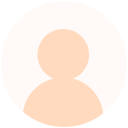
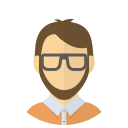
个人中心样式改动

diff --git a/css/personcenter.less b/css/personcenter.less
@@ -2,10 +2,10 @@
  * 个人中心css样式
  */
 @bili:100rem;
-.container{
+
+.warpper{
     background: #f6f6f6;
 }
-
 .page-header{
     background: url(../img/page_bg.jpg) no-repeat center;
     width: 100%;
@@ -13,71 +13,99 @@
     background-size: 100%;
     .user-info{
         width: 200/@bili;
-        height: 290/@bili;
+        height: 270/@bili;
         margin: 0 auto;
         color: #fff;
         text-align: center;
         font-size: 30/@bili;
-        padding-top: 40/@bili;
-        .user-title{
-            margin-bottom: 20/@bili;
-            line-height: 36/@bili;
+        padding-top: 60/@bili;
+        .avatar-bg{
+            background: url('../img/avatar_bg.png') no-repeat center;
+            background-size: 100%;
+            width: 148/@bili;
+            height: 148/@bili;
+            margin: 0 auto;
         }
         .user-avatar{
             width: 128/@bili;
             height: 128/@bili;
             margin: 0 auto;
+            padding-top: 10/@bili;
         }
         .user-name{
              margin-top: 20/@bili;
         }
     }
 }
-.page-main{
-    margin-top: 20/@bili;
-    background: #fff;  
-}
+
 .page-link{
-        background: #fff; 
-        padding: 0 54/@bili;
+    background: #fff; 
+    padding: 0 54/@bili;
+    height: 88/@bili;
+    line-height: 88/@bili;
+//  border-bottom: 1px solid #dddddd;
+    color: #878787;
+    font-size: 30/@bili;
+    margin-bottom: 20/@bili;
+    .about-icon{
+        display: inline-block;
+        background: url(../img/about.png) no-repeat center;
+        width: 70/@bili;
         height: 88/@bili;
-        line-height: 88/@bili;
-        border-bottom: 1px solid #dddddd;
-        color: #878787;
-        font-size: 30/@bili;
-        .about-icon{
-            display: inline-block;
-            background: url(../img/about.png) no-repeat center;
-            width: 70/@bili;
-            height: 88/@bili;
-            background-size: 100%;
-            float: left;
-            margin-top: -10/@bili;
-        }
-        .problem-icon{
-            display: inline-block;
-            background: url(../img/problem.png) no-repeat center;
-            width: 70/@bili;
-            height: 88/@bili;
-            background-size: 100%;
-            float: left;
-        }
-        .advice-icon{
-            display: inline-block;
-            background: url(../img/advice.png) no-repeat center;
-            width: 70/@bili;
-            height: 88/@bili;
-            background-size: 100%;
-            float: left;
-        }
-        .i-icon{
-            width: 14/@bili;
-            height: 22/@bili;
-            display: block;
-            background: url(../img/authcenter02.png) no-repeat;
-            background-size: 100%;
-            float: right;
-            margin-right: 10/@bili;
-            margin-top: 35/@bili;
-        }
+        background-size: 100%;
+        float: left;
     }
+    .problem-icon{
+        display: inline-block;
+        background: url(../img/problem.png) no-repeat center;
+        width: 70/@bili;
+        height: 88/@bili;
+        background-size: 100%;
+        float: left;
+    }
+    .advice-icon{
+        display: inline-block;
+        background: url(../img/advice.png) no-repeat center;
+        width: 70/@bili;
+        height: 88/@bili;
+        background-size: 100%;
+        float: left;
+    }
+    .advice-msg{
+        float: right;
+    }
+    .msg-icon{
+        background: #f96650;
+        color: #fff;
+        padding: 0 20/@bili;
+        border-radius: 48%;
+        margin-right: 20/@bili;
+    }
+    .i-icon{
+        width: 14/@bili;
+        height: 22/@bili;
+        display: block;
+        background: url(../img/authcenter02.png) no-repeat;
+        background-size: 100%;
+        float: right;
+        margin-right: 10/@bili;
+        margin-top: 35/@bili;
+    }
+}
+.page-button{
+    width: 644/@bili;
+    height: 78/@bili;
+    line-height: 78/@bili;
+    background: #ff913d;
+    text-align: center;
+    color: #fff;
+    border-radius: 10/@bili;
+    font-size: 30/@bili;
+    cursor: pointer;
+    display: block;
+    border: none;
+    position: absolute;
+    bottom: 140/@bili;
+    left: 50%;
+    margin-left: -322/@bili;
+}

diff --git a/css/personcenter.css b/css/personcenter.css
@@ -1,7 +1,7 @@
 /**
  * 个人中心css样式
  */
-.container {
+.warpper {
   background: #f6f6f6;
 }
 .page-header {
@@ -12,37 +12,37 @@
 }
 .page-header .user-info {
   width: 2rem;
-  height: 2.9rem;
+  height: 2.7rem;
   margin: 0 auto;
   color: #fff;
   text-align: center;
   font-size: 0.3rem;
-  padding-top: 0.4rem;
+  padding-top: 0.6rem;
 }
-.page-header .user-info .user-title {
-  margin-bottom: 0.2rem;
-  line-height: 0.36rem;
+.page-header .user-info .avatar-bg {
+  background: url('../img/avatar_bg.png') no-repeat center;
+  background-size: 100%;
+  width: 1.48rem;
+  height: 1.48rem;
+  margin: 0 auto;
 }
 .page-header .user-info .user-avatar {
   width: 1.28rem;
   height: 1.28rem;
   margin: 0 auto;
+  padding-top: 0.1rem;
 }
 .page-header .user-info .user-name {
   margin-top: 0.2rem;
-}
-.page-main {
-  margin-top: 0.2rem;
-  background: #fff;
 }
 .page-link {
   background: #fff;
   padding: 0 0.54rem;
   height: 0.88rem;
   line-height: 0.88rem;
-  border-bottom: 1px solid #dddddd;
   color: #878787;
   font-size: 0.3rem;
+  margin-bottom: 0.2rem;
 }
 .page-link .about-icon {
   display: inline-block;
@@ -51,7 +51,6 @@
   height: 0.88rem;
   background-size: 100%;
   float: left;
-  margin-top: -0.1rem;
 }
 .page-link .problem-icon {
   display: inline-block;
@@ -69,6 +68,16 @@
   background-size: 100%;
   float: left;
 }
+.page-link .advice-msg {
+  float: right;
+}
+.page-link .msg-icon {
+  background: #f96650;
+  color: #fff;
+  padding: 0 0.2rem;
+  border-radius: 48%;
+  margin-right: 0.2rem;
+}
 .page-link .i-icon {
   width: 0.14rem;
   height: 0.22rem;
@@ -78,4 +87,21 @@
   float: right;
   margin-right: 0.1rem;
   margin-top: 0.35rem;
+}
+.page-button {
+  width: 6.44rem;
+  height: 0.78rem;
+  line-height: 0.78rem;
+  background: #ff913d;
+  text-align: center;
+  color: #fff;
+  border-radius: 0.1rem;
+  font-size: 0.3rem;
+  cursor: pointer;
+  display: block;
+  border: none;
+  position: absolute;
+  bottom: 1.4rem;
+  left: 50%;
+  margin-left: -3.22rem;
 }

diff --git a/personcenter.html b/personcenter.html
@@ -22,22 +22,28 @@
 			<div class="container">
 				<div class="page-header clearfix">
 					<div class="user-info">
-						<p class="user-title">我的</p>
-						<img src="img/avatar.png" class="user-avatar">
+						<p class="avatar-bg">
+							<img src="img/avatar.png" class="user-avatar">
+						</p>	
 						<p class="user-name">用户1234</p>
 					</div>
 				</div>
-				<p class="page-link">
-					<span class="advice-icon"></span>消息通知  <span class="i-icon"></span>
-				</p>
-				<div class="page-main">
-					<p class="page-link">
-						<span class="about-icon"></span>关于我们 <span class="i-icon"></span>
-					</p>
-					<p class="page-link">
-						<span class="problem-icon"></span>常见问题 <span class="i-icon"></span>
-					</p>
+				<div class="page-link">
+					<span class="advice-icon"></span>消息通知  			
+					<p class="advice-msg">
+						<span class="msg-icon">1</span>
+						<span class="i-icon"></span>
+					</p>				
 				</div>
+				<div class="page-main">
+					<div class="page-link">
+						<span class="about-icon"></span>关于我们 <span class="i-icon"></span>
+					</div>
+					<div class="page-link">
+						<span class="problem-icon"></span>常见问题 <span class="i-icon"></span>
+					</div>
+				</div>
+				<button class="page-button">退出登录</button>
 			</div>
 		</div>
 		<script src="js/page/personcenter.js"></script>

diff --git a/README.md b/README.md
@@ -1,1 +1,1 @@
-#32wqr
+#星融h5页面
